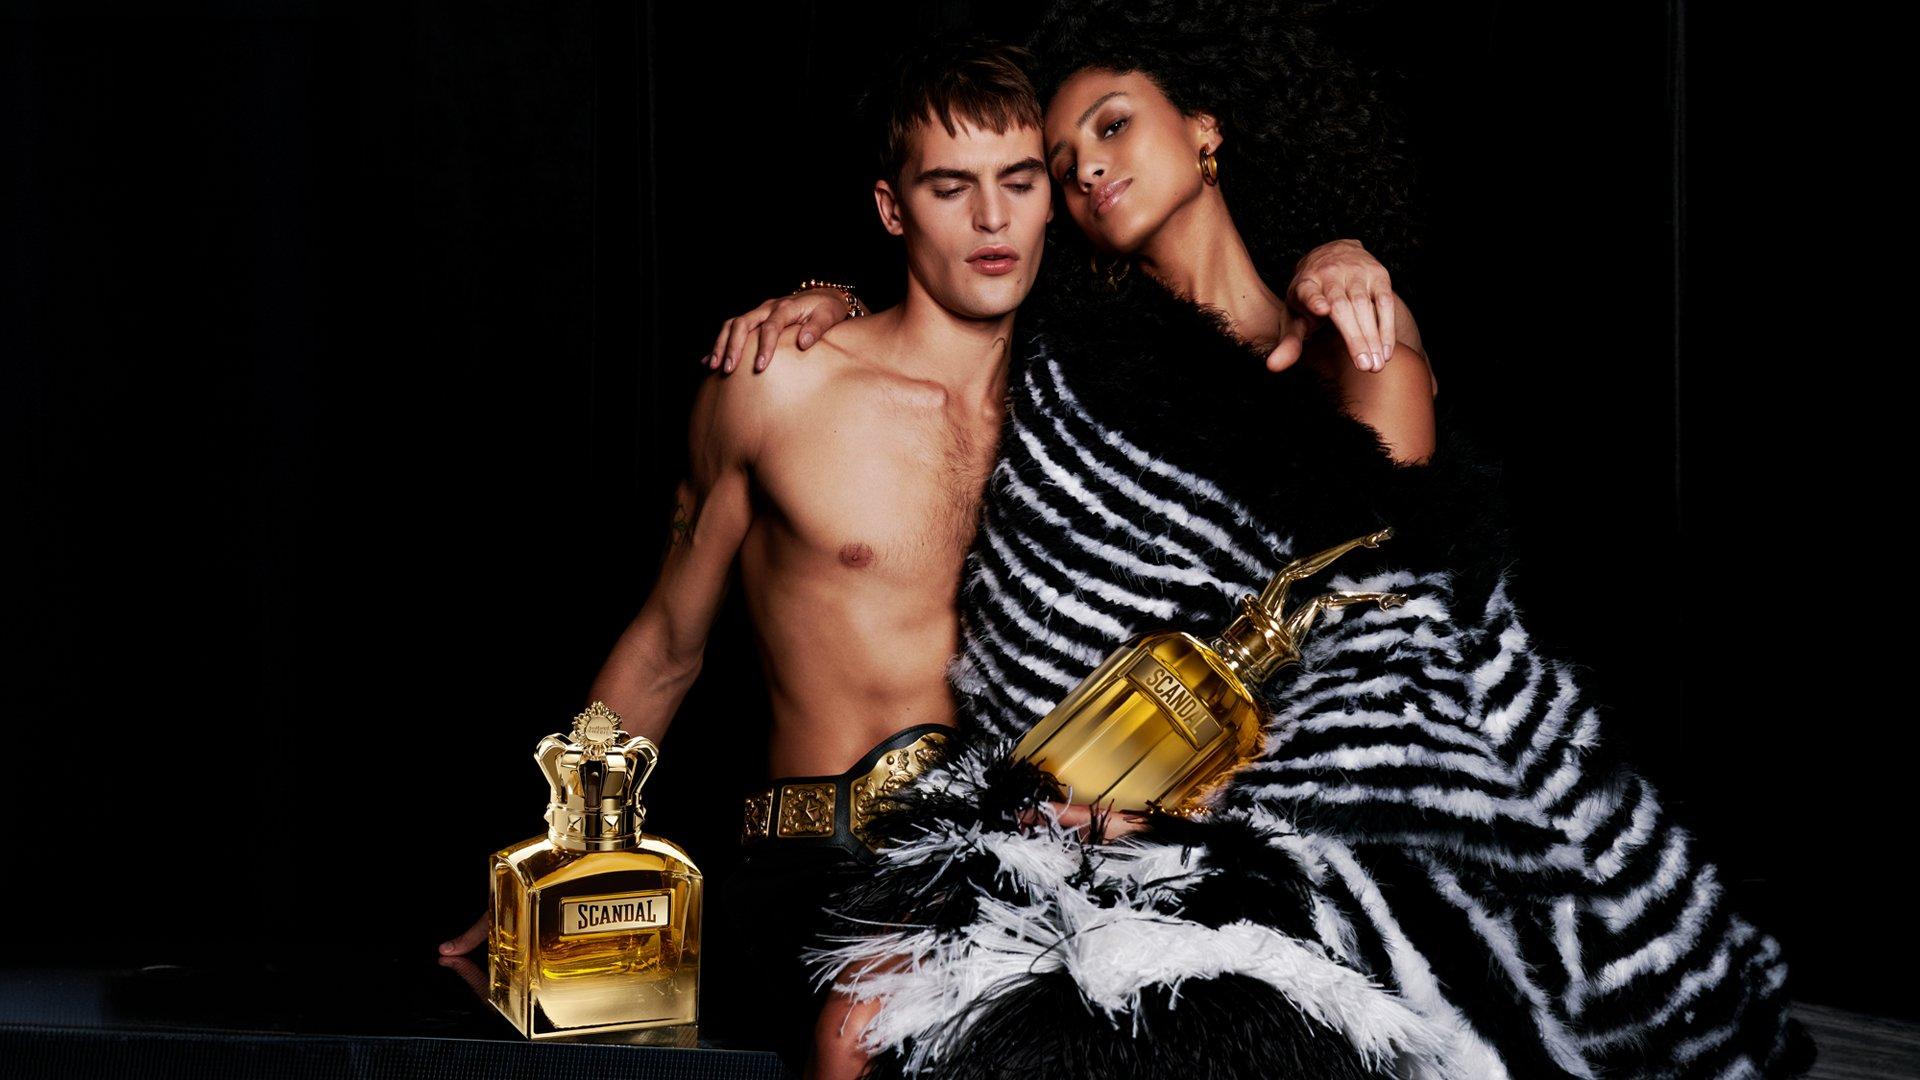
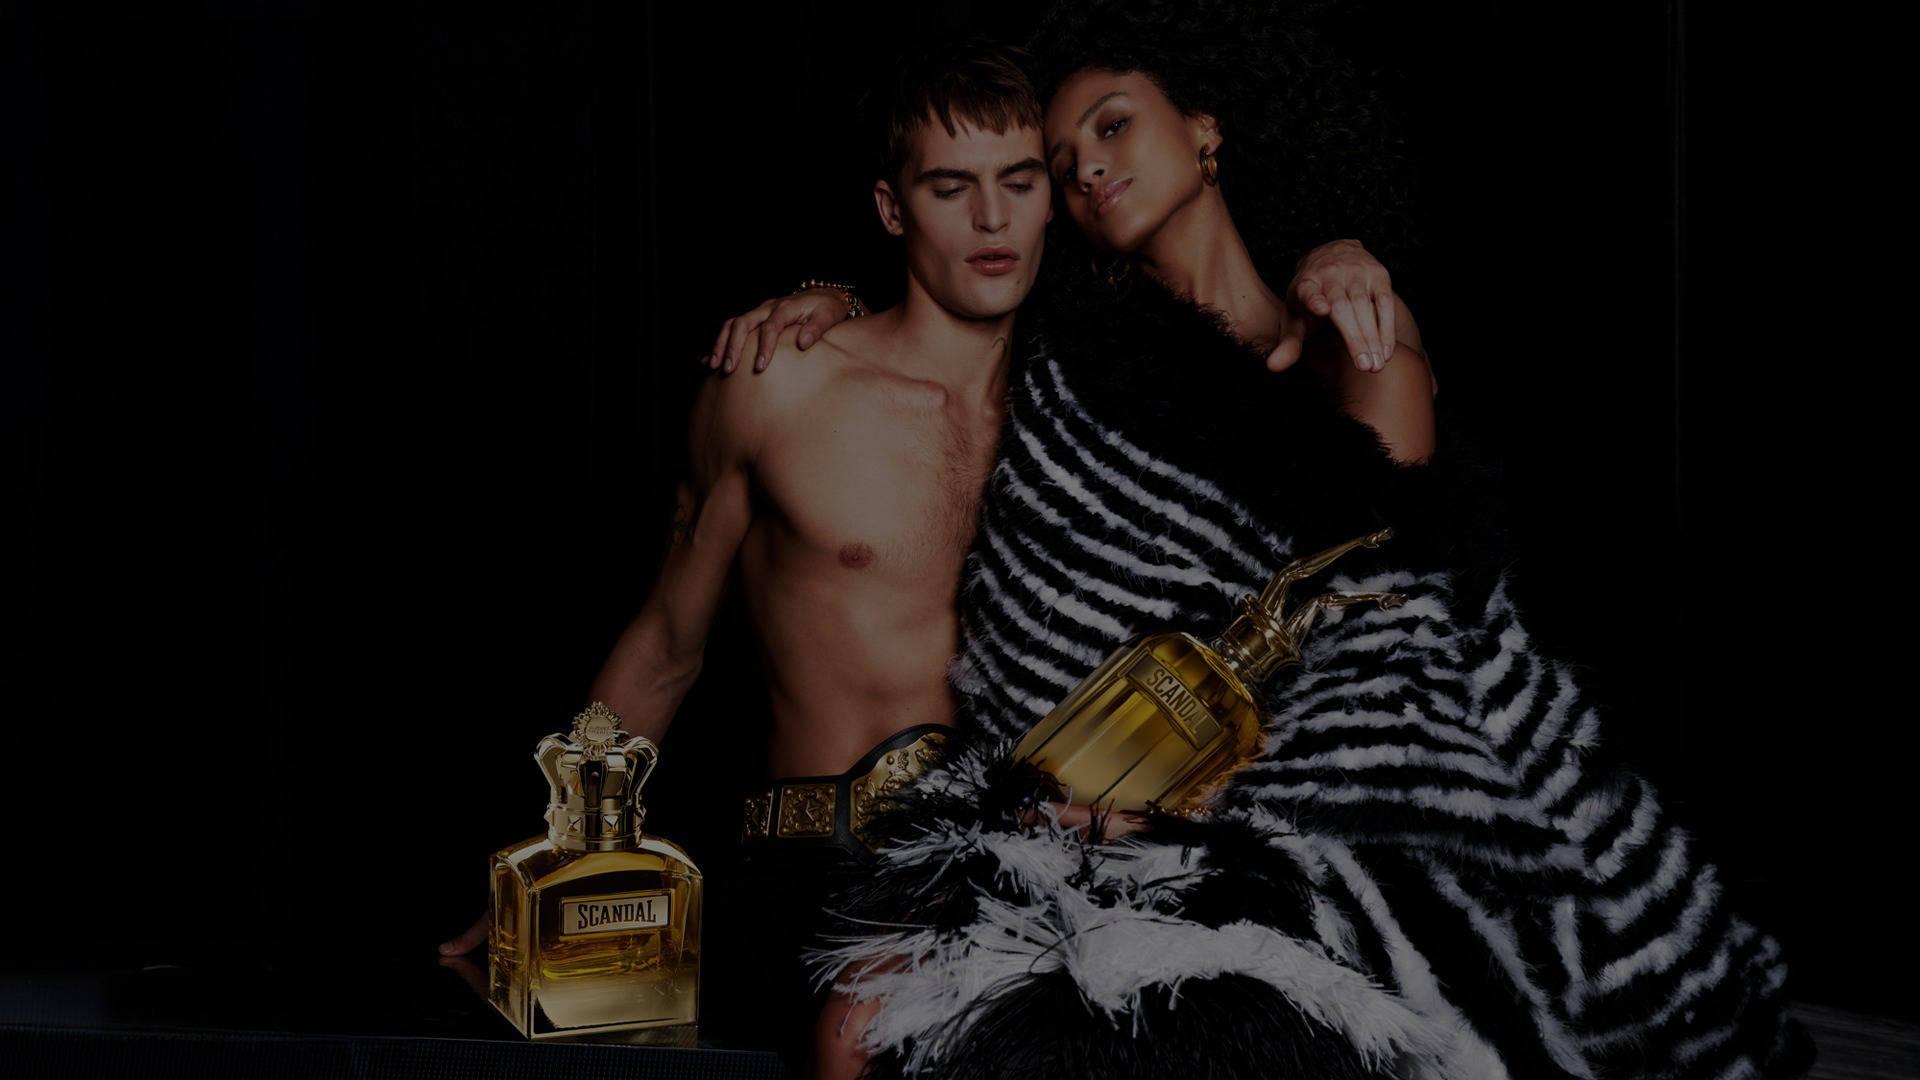
Diseno pagina principal

Changed region(s): [[0.2188, 0.0611, 0.9688, 1.0]]

diff --git a/src/app/components/main/main.component.html b/src/app/components/main/main.component.html
@@ -1,7 +1,19 @@
-
-
-<section class="img-info">
-  <div class="container-img-info">
-    
+<div class="container">
+  <div class="image">
+    <img src="../../../assets/img/imgs/main.jpg" alt="Scandal Absolu">
   </div>
-</section>
+  <div class="text">
+    <h1 class="text-gray-900 title-font text-lg font-medium">Scandal Absolu - JPG</h1>
+    <p>Descubre lo más nuevo en el mundo de la perfumería</p>
+  </div>
+</div>
+
+<div class="container">
+  <div class="image">
+    <img src="../../../assets/img/imgs/main-2.jpg" alt="Scandal Absolu">
+  </div>
+  <div class="text">
+    <h1 class="text-gray-900 title-font text-lg font-medium">Encuentra las mejores marcas</h1>
+    <p>Jean Paul Gaultier, Hugo Boss, Dior, Montblanc, y muchas más</p>
+  </div>
+</div>

diff --git a/src/app/components/producto/producto.component.html b/src/app/components/producto/producto.component.html
@@ -7,7 +7,7 @@
               <img alt="ecommerce" class="object-cover object-center w-full h-full block" src="../../assets/img/perfumes/{{producto.imagen}}">
             </a>
             <div class="mt-4">
-              <h3 class="text-gray-500 text-xs tracking-widest title-font mb-1">{{producto.familia_olfativa}}</h3>
+              <h3 class="text-gray-500 text-xs tracking-widest title-font mb-1">{{producto.familiaOlfativa}}</h3>
               <h2 class="text-gray-900 title-font text-lg font-medium">{{producto.nombre}}</h2>
               <p class="mt-1">{{producto.marca}}</p>
               <p class="mt-1">${{producto.precio}}</p>

diff --git a/src/app/components/main/main.component.css b/src/app/components/main/main.component.css
@@ -1,5 +1,36 @@
-.img-main {
+.container {
+    display: flex;
+    justify-content: center;
+    align-items: center;
+    flex-direction: column;
     position: relative;
-    top: 500px;
-    left: 50px;
 }
+
+.image {
+    position: relative;
+
+}
+
+.text {
+    text-align: center;
+    position: absolute;
+    color: white;
+    top: 65%;
+    left: 50%;
+    transform: translate(-50%, -50%);
+}
+
+
+h1 {
+    font-size: 3rem;
+    font-weight: 600;
+    margin-bottom: 2rem;
+    color: white;
+}
+
+p {
+    font-size: 1.5rem;
+    font-weight: 300;
+    color: white;
+}
+

diff --git a/src/app/interfaces/producto.interface.ts b/src/app/interfaces/producto.interface.ts
@@ -7,6 +7,6 @@ export interface Producto {
     "existencia": number,
     "stock_max": number,
     "stock_min": number,
-    "familia_olfativa": string,
+    "familiaOlfativa": string,
     "imagen": string
 }
